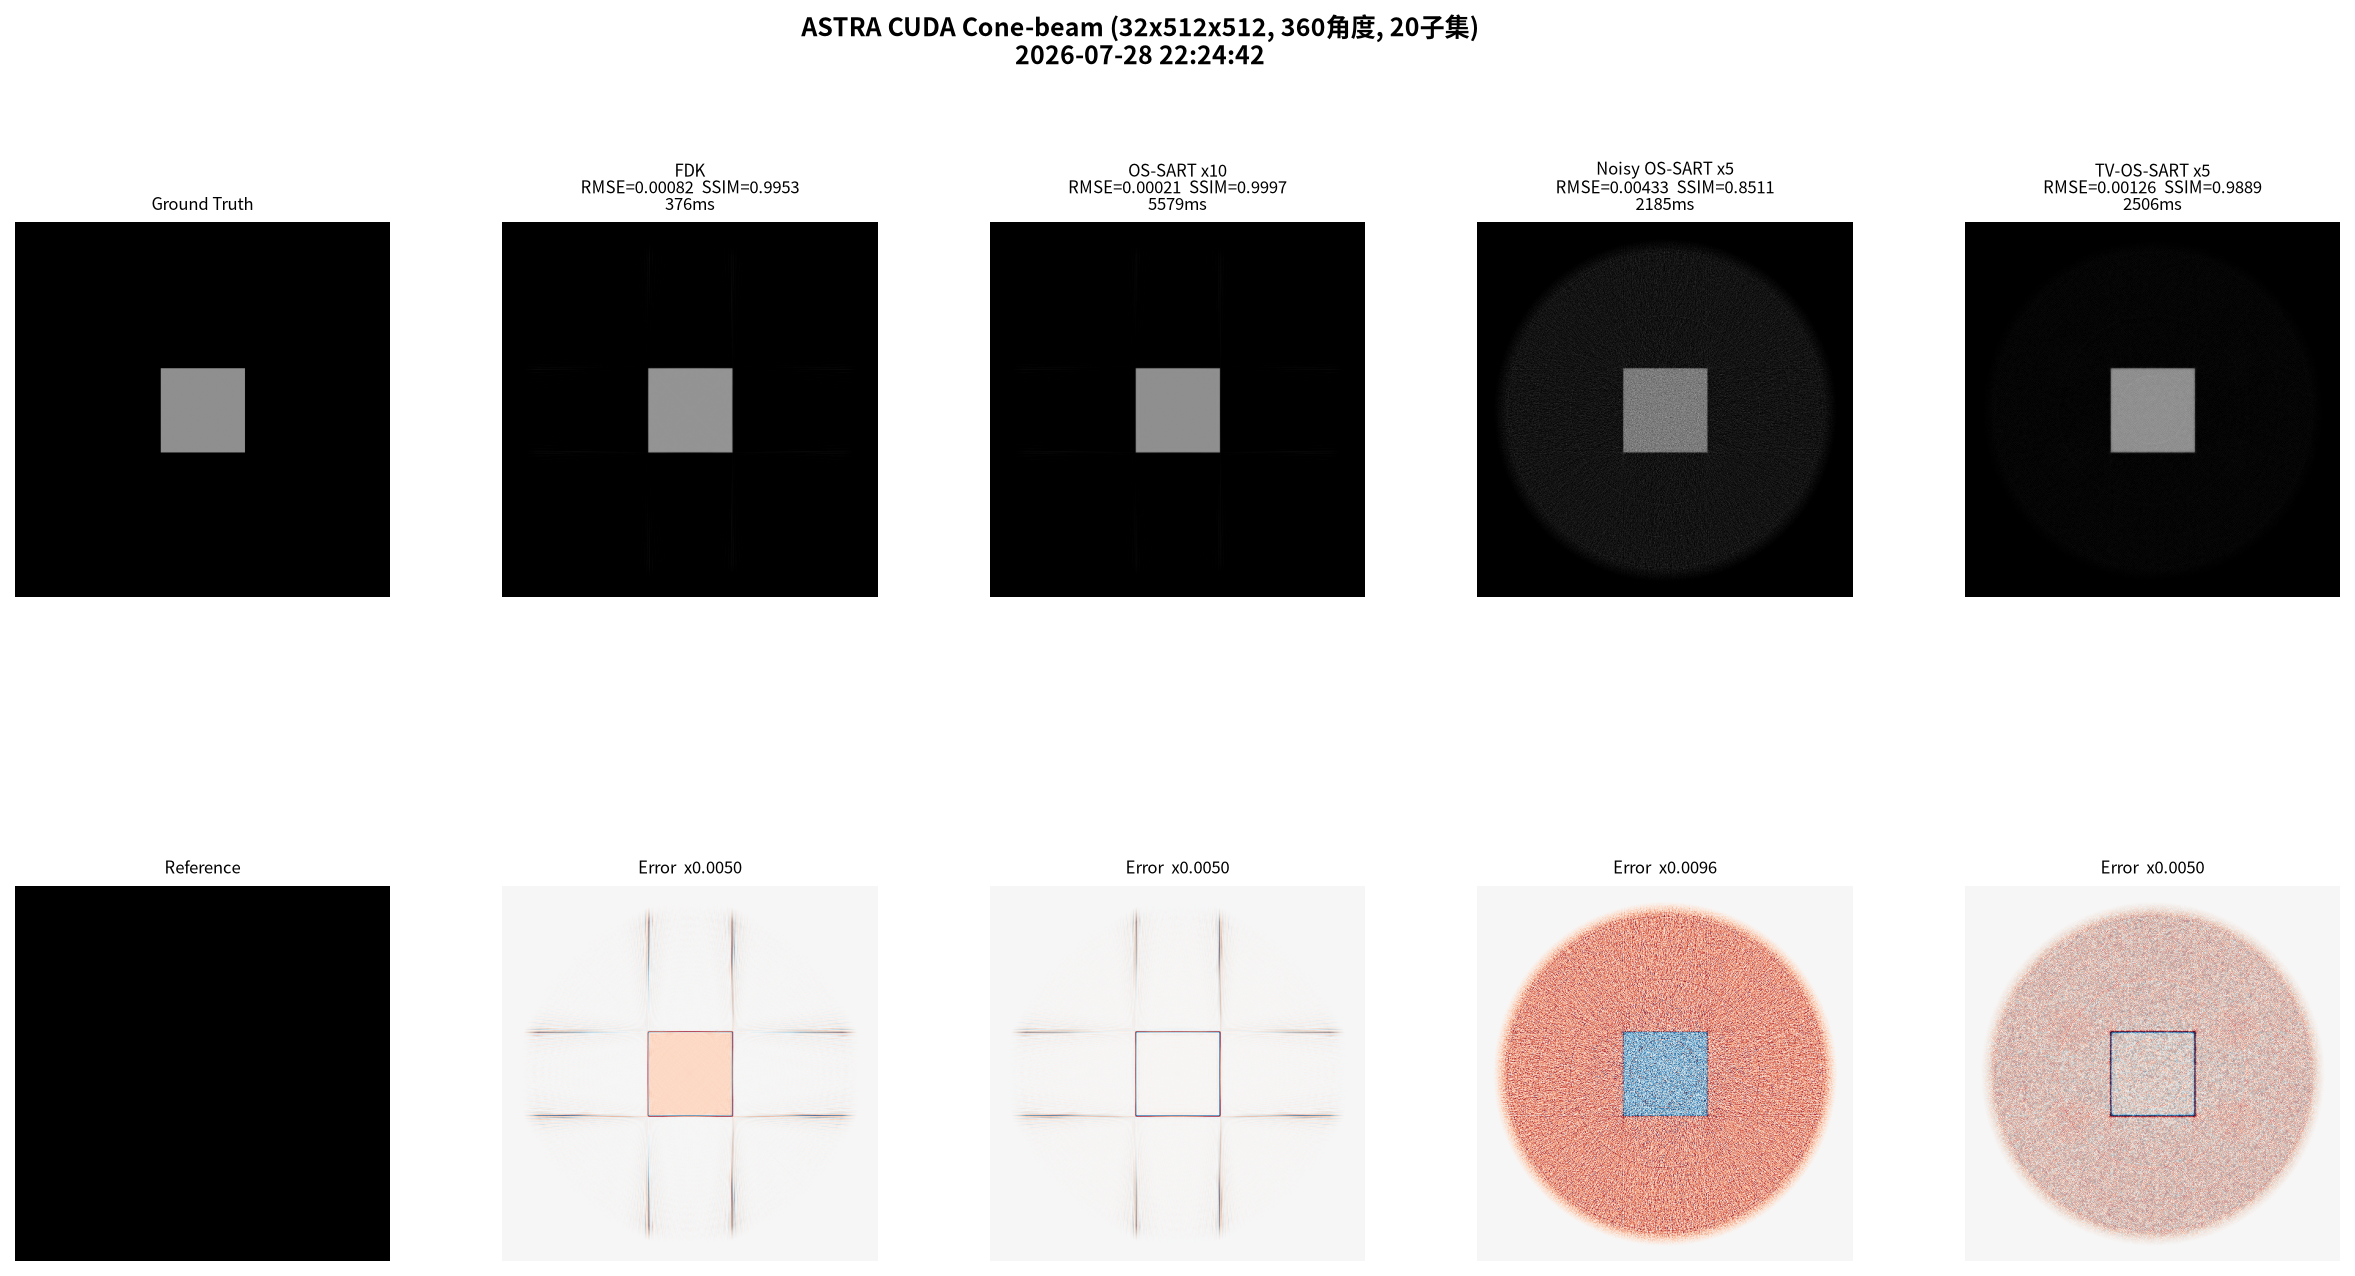
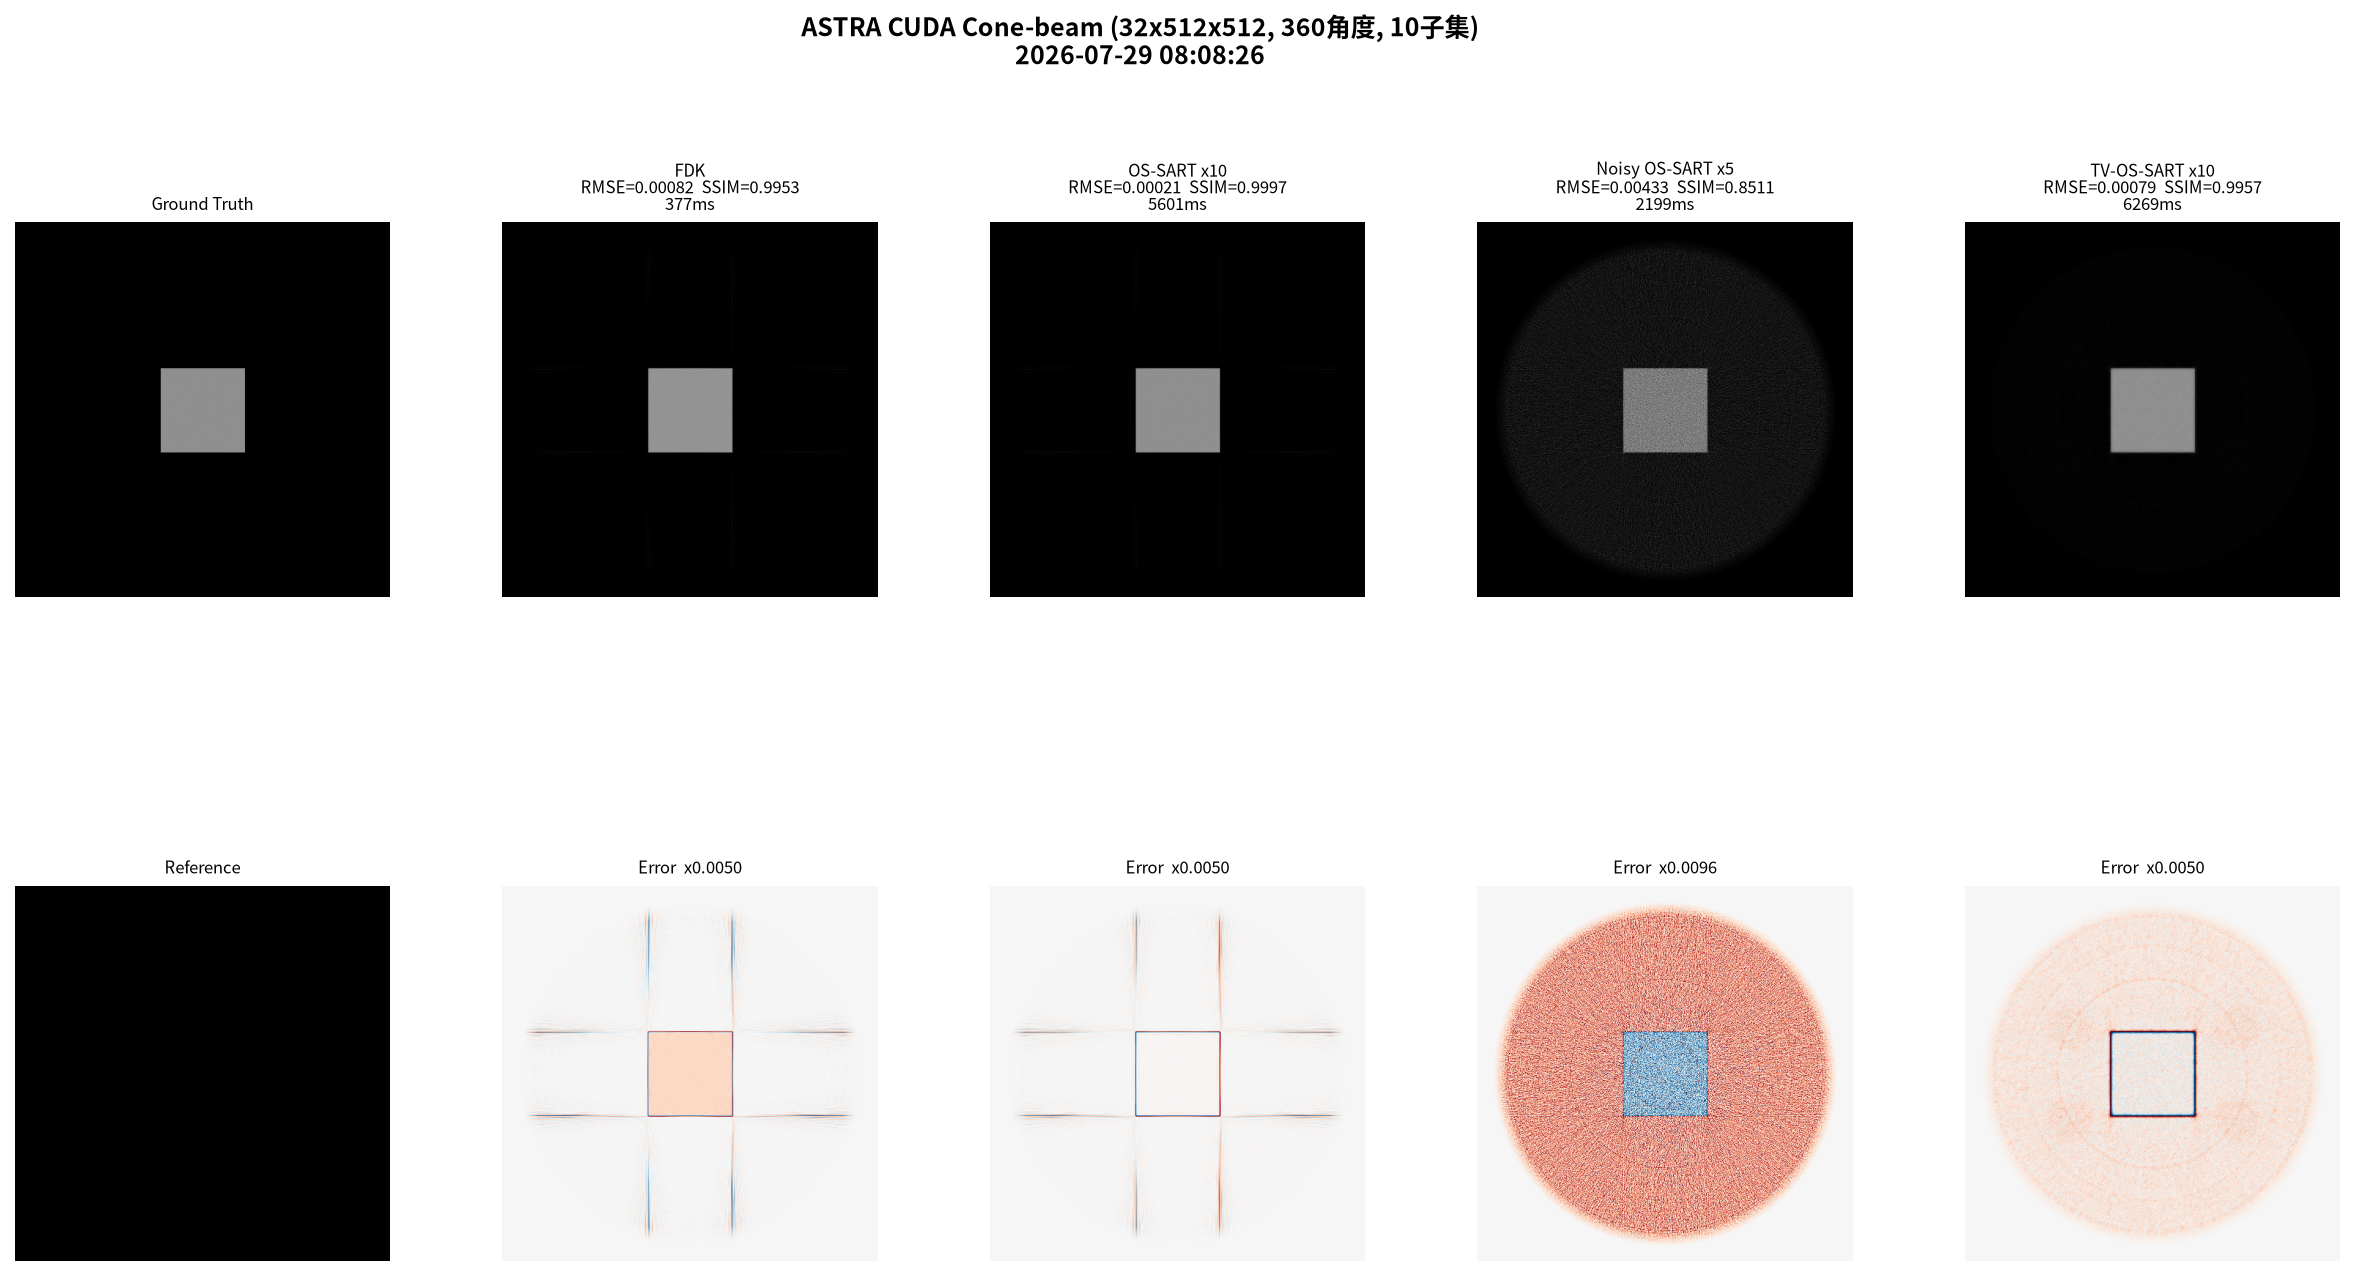
update astra

Changed region(s): [[0.8369, 0.703, 0.9919, 0.9781], [0.8989, 0.1223, 0.9609, 0.1528], [0.496, 0.0306, 0.527, 0.0611]]

diff --git a/src_3d_helical/astra_cone_hybrid.py b/src_3d_helical/astra_cone_hybrid.py
@@ -240,12 +240,11 @@ for ni in [1, 3, 5]:
     prev_n = ni
 print(f"   >> 最优: x{best_n['n']}: RMSE={best_n['rmse']:.5f}")
 
-# TV-OS-SART
-beta = 0.001
+# TV-OS-SART (β scheduling: high→low for denoise→detail)
 best_tv = {"rmse": 1e9}
 rec_tv = rec_fdk_n.copy()
 prev_n = 0
-for ni in [1, 3, 5]:
+for ni, beta in zip([1, 3, 5, 10], [0.003, 0.002, 0.001, 0.0005]):
     dn = ni - prev_n
     t0 = time()
     for _ in range(dn):
@@ -272,7 +271,7 @@ print(f"   TV 改善: {tv_improv:+.1f}%")
 # D. 汇总
 # ============================
 print("\n" + "=" * 70)
-print("汇总对比 (32x512x512, 360角度, 20子集)")
+print("汇总对比 (32x512x512, 360角度, 10子集)")
 print("=" * 70)
 print(f"{'算法':30s} {'耗时(ms)':>10s} {'RMSE':>12s} {'SSIM':>8s} {'vsFDK':>10s}")
 print("-" * 72)
@@ -291,7 +290,7 @@ results = [
 
 # 可视化
 print("\n生成可视化...")
-os.makedirs("img_3d_axial", exist_ok=True)
+os.makedirs("img_3d_helical", exist_ok=True)
 mid = nz // 2
 fig = plt.figure(figsize=(20, 10))
 gs = GridSpec(2, 5, figure=fig, hspace=0.35, wspace=0.3)
@@ -322,11 +321,11 @@ for i, (title, img, rmse, ssim, t, ni) in enumerate(titles_upper):
     else:
         ax2.imshow(np.zeros_like(img), cmap="gray"); ax2.set_title("Reference", fontsize=8)
     ax2.axis("off")
-plt.suptitle(f"ASTRA CUDA Cone-beam (32x512x512, {n_angles}角度, 20子集)\n{ts}",
+plt.suptitle(f"ASTRA CUDA Cone-beam (32x512x512, {n_angles}角度, 10子集)\n{ts}",
              fontsize=12, fontweight="bold", y=0.98)
-plt.savefig("img_3d_axial/astra_cone_hybrid.png", dpi=150, bbox_inches="tight")
+plt.savefig("img_3d_helical/astra_cone_hybrid.png", dpi=150, bbox_inches="tight")
 plt.close()
-print("   => img_3d_axial/astra_cone_hybrid.png")
+print("   => img_3d_helical/astra_cone_hybrid.png")
 
 summary = {
     "backend": "ASTRA CUDA cone-beam (对齐TIGRE版)",
@@ -334,7 +333,7 @@ summary = {
     "results": {name: {"rmse": round(r,5), "ssim": round(s,4), "time_ms": round(t*1000,1)}
                 for name,t,r,s in results},
 }
-with open("img_3d_axial/astra_cone_hybrid_summary.json", "w") as f:
+with open("img_3d_helical/astra_cone_hybrid_summary.json", "w") as f:
     json.dump(summary, f, indent=2)
-print("   => img_3d_axial/astra_cone_hybrid_summary.json")
+print("   => img_3d_helical/astra_cone_hybrid_summary.json")
 print("\nDone!")

diff --git a/src_3d_axial/astra_cone_hybrid.py b/src_3d_axial/astra_cone_hybrid.py
@@ -240,12 +240,11 @@ for ni in [1, 3, 5]:
     prev_n = ni
 print(f"   >> 最优: x{best_n['n']}: RMSE={best_n['rmse']:.5f}")
 
-# TV-OS-SART
-beta = 0.001
+# TV-OS-SART (β scheduling: high→low for denoise→detail)
 best_tv = {"rmse": 1e9}
 rec_tv = rec_fdk_n.copy()
 prev_n = 0
-for ni in [1, 3, 5]:
+for ni, beta in zip([1, 3, 5, 10], [0.003, 0.002, 0.001, 0.0005]):
     dn = ni - prev_n
     t0 = time()
     for _ in range(dn):
@@ -272,7 +271,7 @@ print(f"   TV 改善: {tv_improv:+.1f}%")
 # D. 汇总
 # ============================
 print("\n" + "=" * 70)
-print("汇总对比 (32x512x512, 360角度, 20子集)")
+print("汇总对比 (32x512x512, 360角度, 10子集)")
 print("=" * 70)
 print(f"{'算法':30s} {'耗时(ms)':>10s} {'RMSE':>12s} {'SSIM':>8s} {'vsFDK':>10s}")
 print("-" * 72)
@@ -322,7 +321,7 @@ for i, (title, img, rmse, ssim, t, ni) in enumerate(titles_upper):
     else:
         ax2.imshow(np.zeros_like(img), cmap="gray"); ax2.set_title("Reference", fontsize=8)
     ax2.axis("off")
-plt.suptitle(f"ASTRA CUDA Cone-beam (32x512x512, {n_angles}角度, 20子集)\n{ts}",
+plt.suptitle(f"ASTRA CUDA Cone-beam (32x512x512, {n_angles}角度, 10子集)\n{ts}",
              fontsize=12, fontweight="bold", y=0.98)
 plt.savefig("img_3d_axial/astra_cone_hybrid.png", dpi=150, bbox_inches="tight")
 plt.close()

diff --git a/src_3d_axial/tigre_cone_hybrid.py b/src_3d_axial/tigre_cone_hybrid.py
@@ -212,7 +212,7 @@ results = [
 
 # ========== 可视化 ==========
 print("\n生成可视化...")
-os.makedirs("img_3d_helical", exist_ok=True)
+os.makedirs("img_3d_axial", exist_ok=True)
 mid = nz // 2
 fig = plt.figure(figsize=(18, 10))
 gs = GridSpec(2, 5, figure=fig, hspace=0.35, wspace=0.3)
@@ -255,9 +255,9 @@ plt.suptitle(
     f"TIGRE CUDA Cone-beam  (512x512x32, {n_angles}角度, blocksize=36)\n{ts}",
     fontsize=12, fontweight="bold", y=0.98
 )
-plt.savefig("img_3d_helical/tigre_cone_hybrid.png", dpi=150, bbox_inches="tight")
+plt.savefig("img_3d_axial/tigre_cone_hybrid.png", dpi=150, bbox_inches="tight")
 plt.close()
-print("   => img_3d_helical/tigre_cone_hybrid.png")
+print("   => img_3d_axial/tigre_cone_hybrid.png")
 
 summary = {
     "backend": "TIGRE CUDA cone-beam (optimized v2)",
@@ -267,7 +267,7 @@ summary = {
         for name, t, r, s in results
     },
 }
-with open("img_3d_helical/tigre_cone_hybrid_summary.json", "w") as f:
+with open("img_3d_axial/tigre_cone_hybrid_summary.json", "w") as f:
     json.dump(summary, f, indent=2)
-print("   => img_3d_helical/tigre_cone_hybrid_summary.json")
+print("   => img_3d_axial/tigre_cone_hybrid_summary.json")
 print("\nDone!")

diff --git a/src_3d_helical/tigre_cone_hybrid.py b/src_3d_helical/tigre_cone_hybrid.py
@@ -212,7 +212,7 @@ results = [
 
 # ========== 可视化 ==========
 print("\n生成可视化...")
-os.makedirs("img_3d_axial", exist_ok=True)
+os.makedirs("img_3d_helical", exist_ok=True)
 mid = nz // 2
 fig = plt.figure(figsize=(18, 10))
 gs = GridSpec(2, 5, figure=fig, hspace=0.35, wspace=0.3)
@@ -255,9 +255,9 @@ plt.suptitle(
     f"TIGRE CUDA Cone-beam  (512x512x32, {n_angles}角度, blocksize=36)\n{ts}",
     fontsize=12, fontweight="bold", y=0.98
 )
-plt.savefig("img_3d_axial/tigre_cone_hybrid.png", dpi=150, bbox_inches="tight")
+plt.savefig("img_3d_helical/tigre_cone_hybrid.png", dpi=150, bbox_inches="tight")
 plt.close()
-print("   => img_3d_axial/tigre_cone_hybrid.png")
+print("   => img_3d_helical/tigre_cone_hybrid.png")
 
 summary = {
     "backend": "TIGRE CUDA cone-beam (optimized v2)",
@@ -267,7 +267,7 @@ summary = {
         for name, t, r, s in results
     },
 }
-with open("img_3d_axial/tigre_cone_hybrid_summary.json", "w") as f:
+with open("img_3d_helical/tigre_cone_hybrid_summary.json", "w") as f:
     json.dump(summary, f, indent=2)
-print("   => img_3d_axial/tigre_cone_hybrid_summary.json")
+print("   => img_3d_helical/tigre_cone_hybrid_summary.json")
 print("\nDone!")
